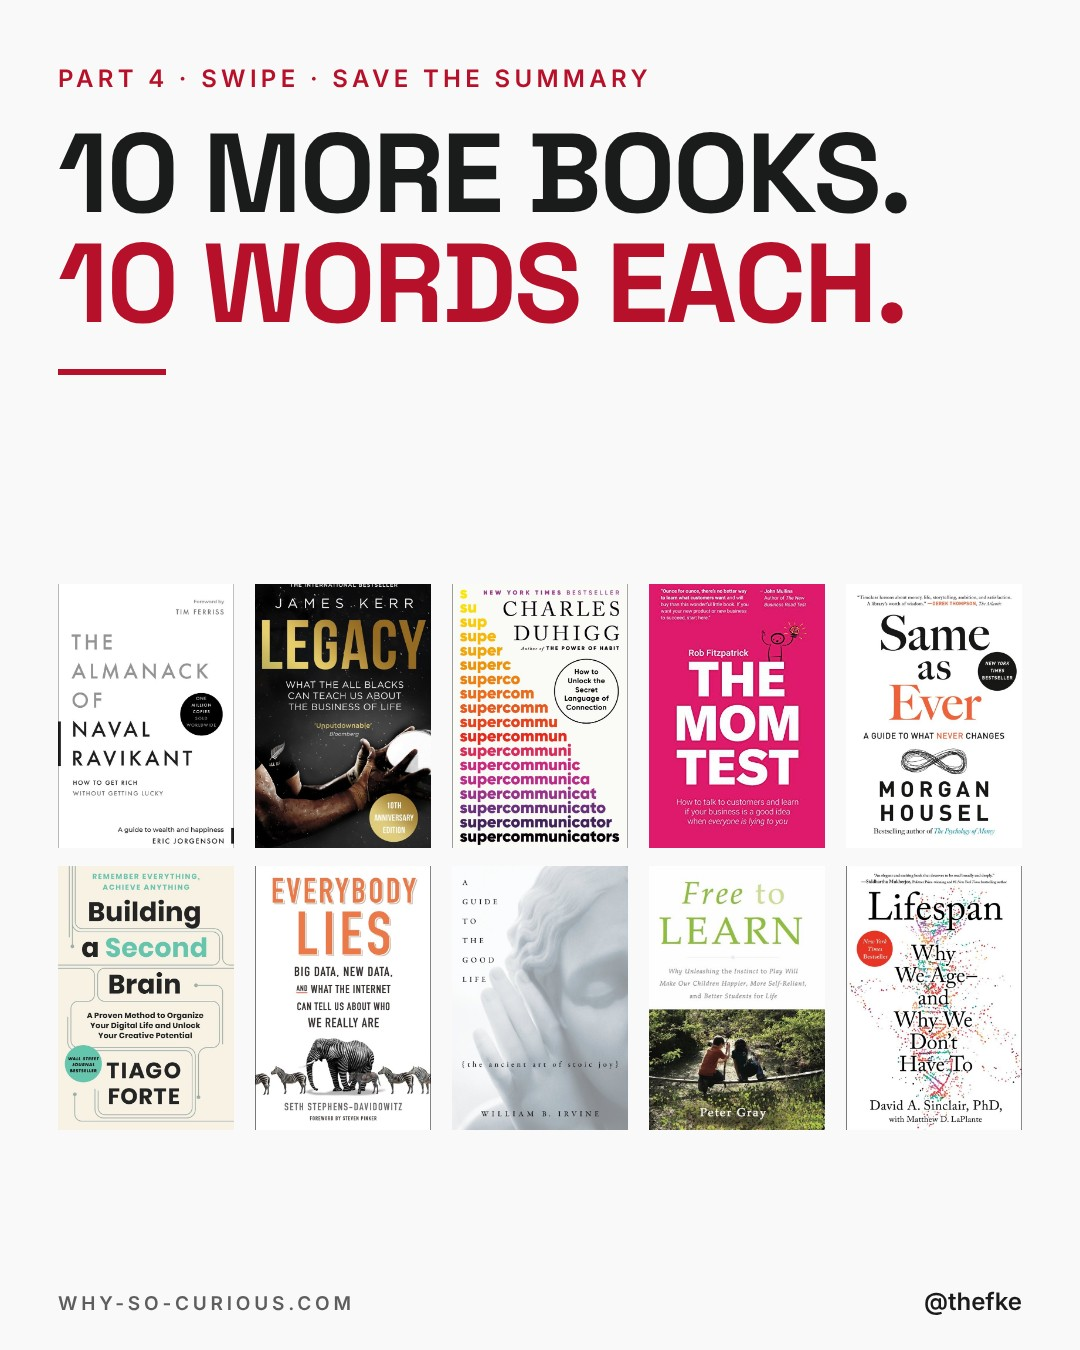
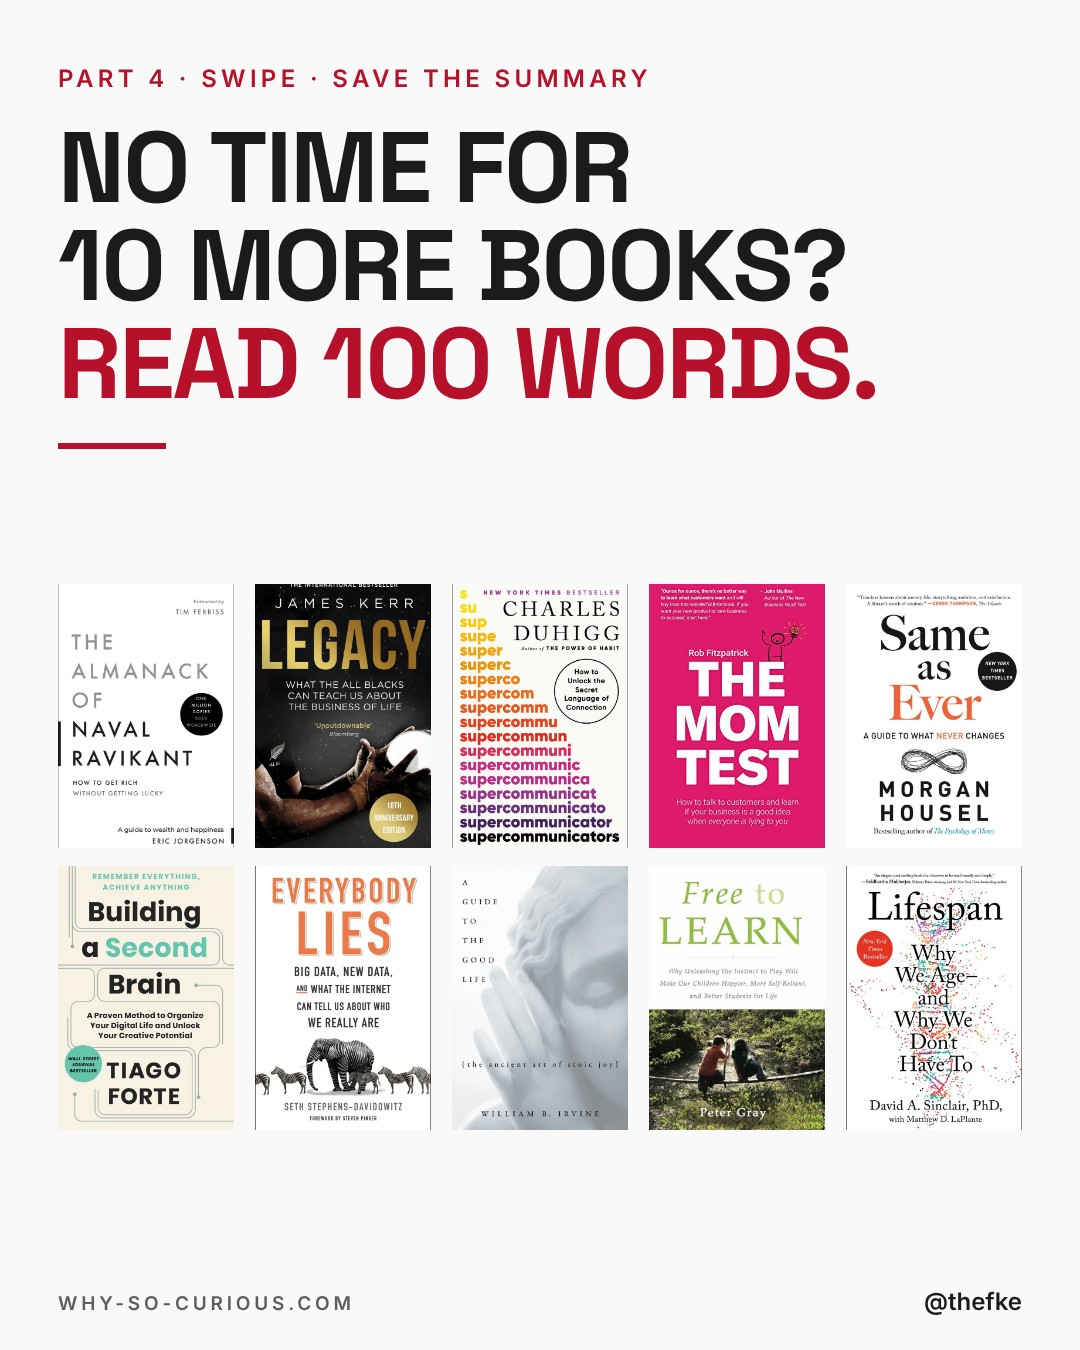
10 Books in 10 Words Teil 2 bis 4: Hook B (#47)
* 10 Books in 10 Words: neuer Hook "No time for 10 books? Read 100 words." (Thomas, 22.11.2026)

Claude-Session: https://claude.ai/code/session_012MyTsRSoHmEwdUrVbzPwXM

* 10 Books in 10 Words Teil 2 bis 4: Hook B nachgezogen (Thomas, 22.11.2026)

Claude-Session: https://claude.ai/code/session_012MyTsRSoHmEwdUrVbzPwXM

---------

Changed region(s): [[0.0611, 0.0933, 0.8556, 0.3422]]

diff --git a/plan/2026-12-13-10-books-10-words-3/README.md b/plan/2026-12-13-10-books-10-words-3/README.md
@@ -5,8 +5,8 @@ Karussell, 12 Slides. Beim Hochladen 4:5 wählen.
 ## Caption
 
 ```
-10 more books.
-10 words each.
+No time for 10 more books?
+Read 100 words.
 
 Part 3.
 Goggins, Holiday, Gladwell, Marcus Aurelius and six more.

diff --git a/plan/2026-12-24-10-books-10-words-4/README.md b/plan/2026-12-24-10-books-10-words-4/README.md
@@ -5,8 +5,8 @@ Karussell, 12 Slides. Beim Hochladen 4:5 wählen.
 ## Caption
 
 ```
-10 more books.
-10 words each.
+No time for 10 more books?
+Read 100 words.
 
 Part 4.
 Naval, the All Blacks, The Mom Test and seven more.

diff --git a/plan/2026-12-02-10-books-10-words-2/README.md b/plan/2026-12-02-10-books-10-words-2/README.md
@@ -5,8 +5,8 @@ Karussell, 12 Slides. Beim Hochladen 4:5 wählen.
 ## Caption
 
 ```
-10 more books.
-10 words each.
+No time for 10 more books?
+Read 100 words.
 
 Name a book in the comments.
 I'll sum it up in 10 words.
